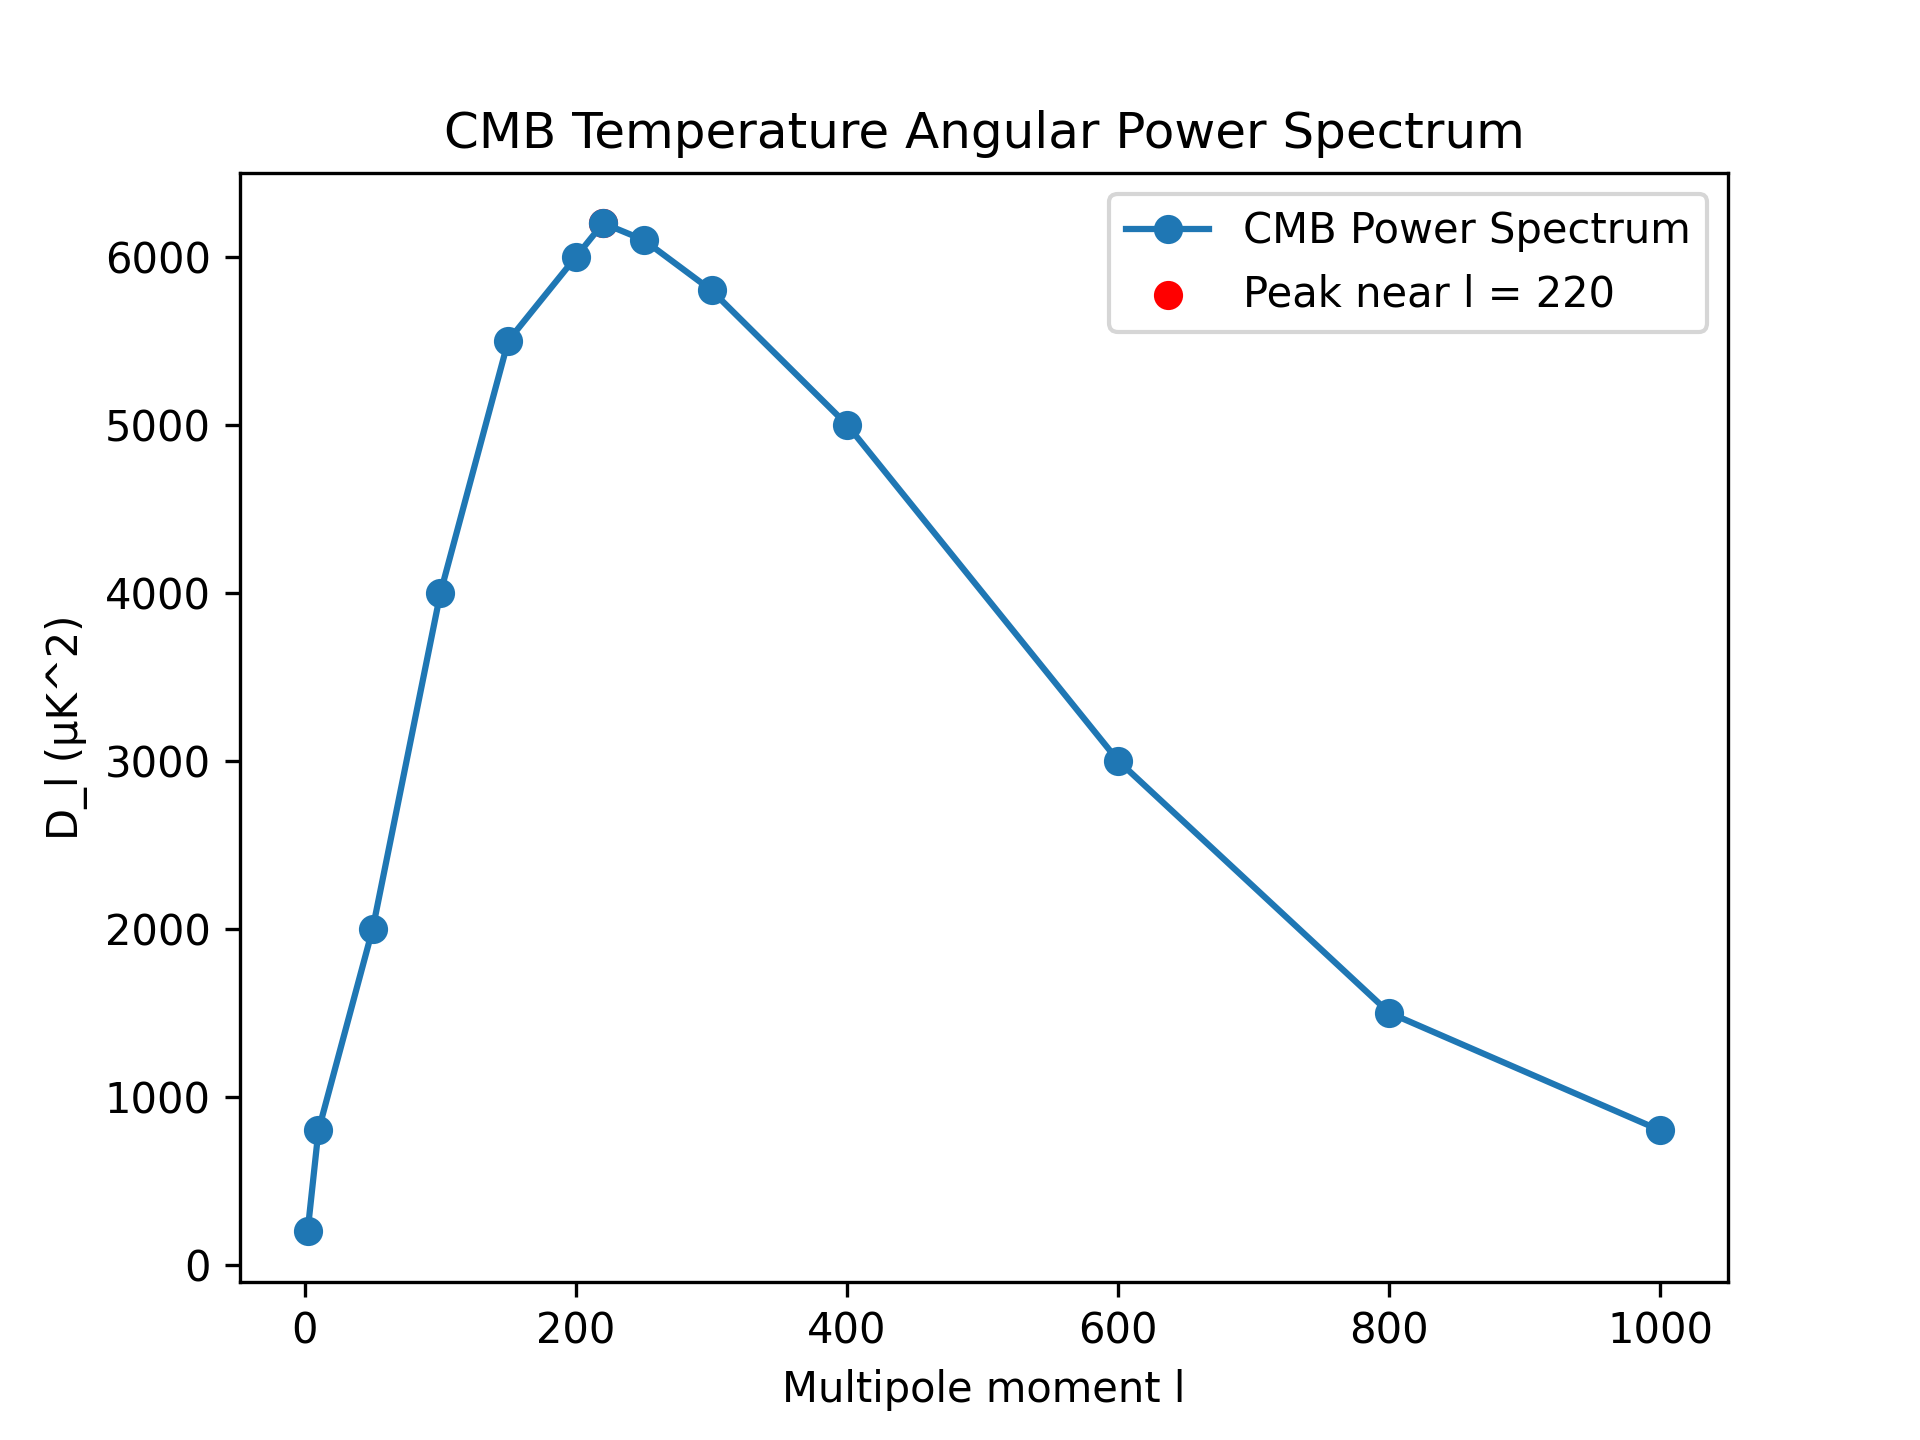
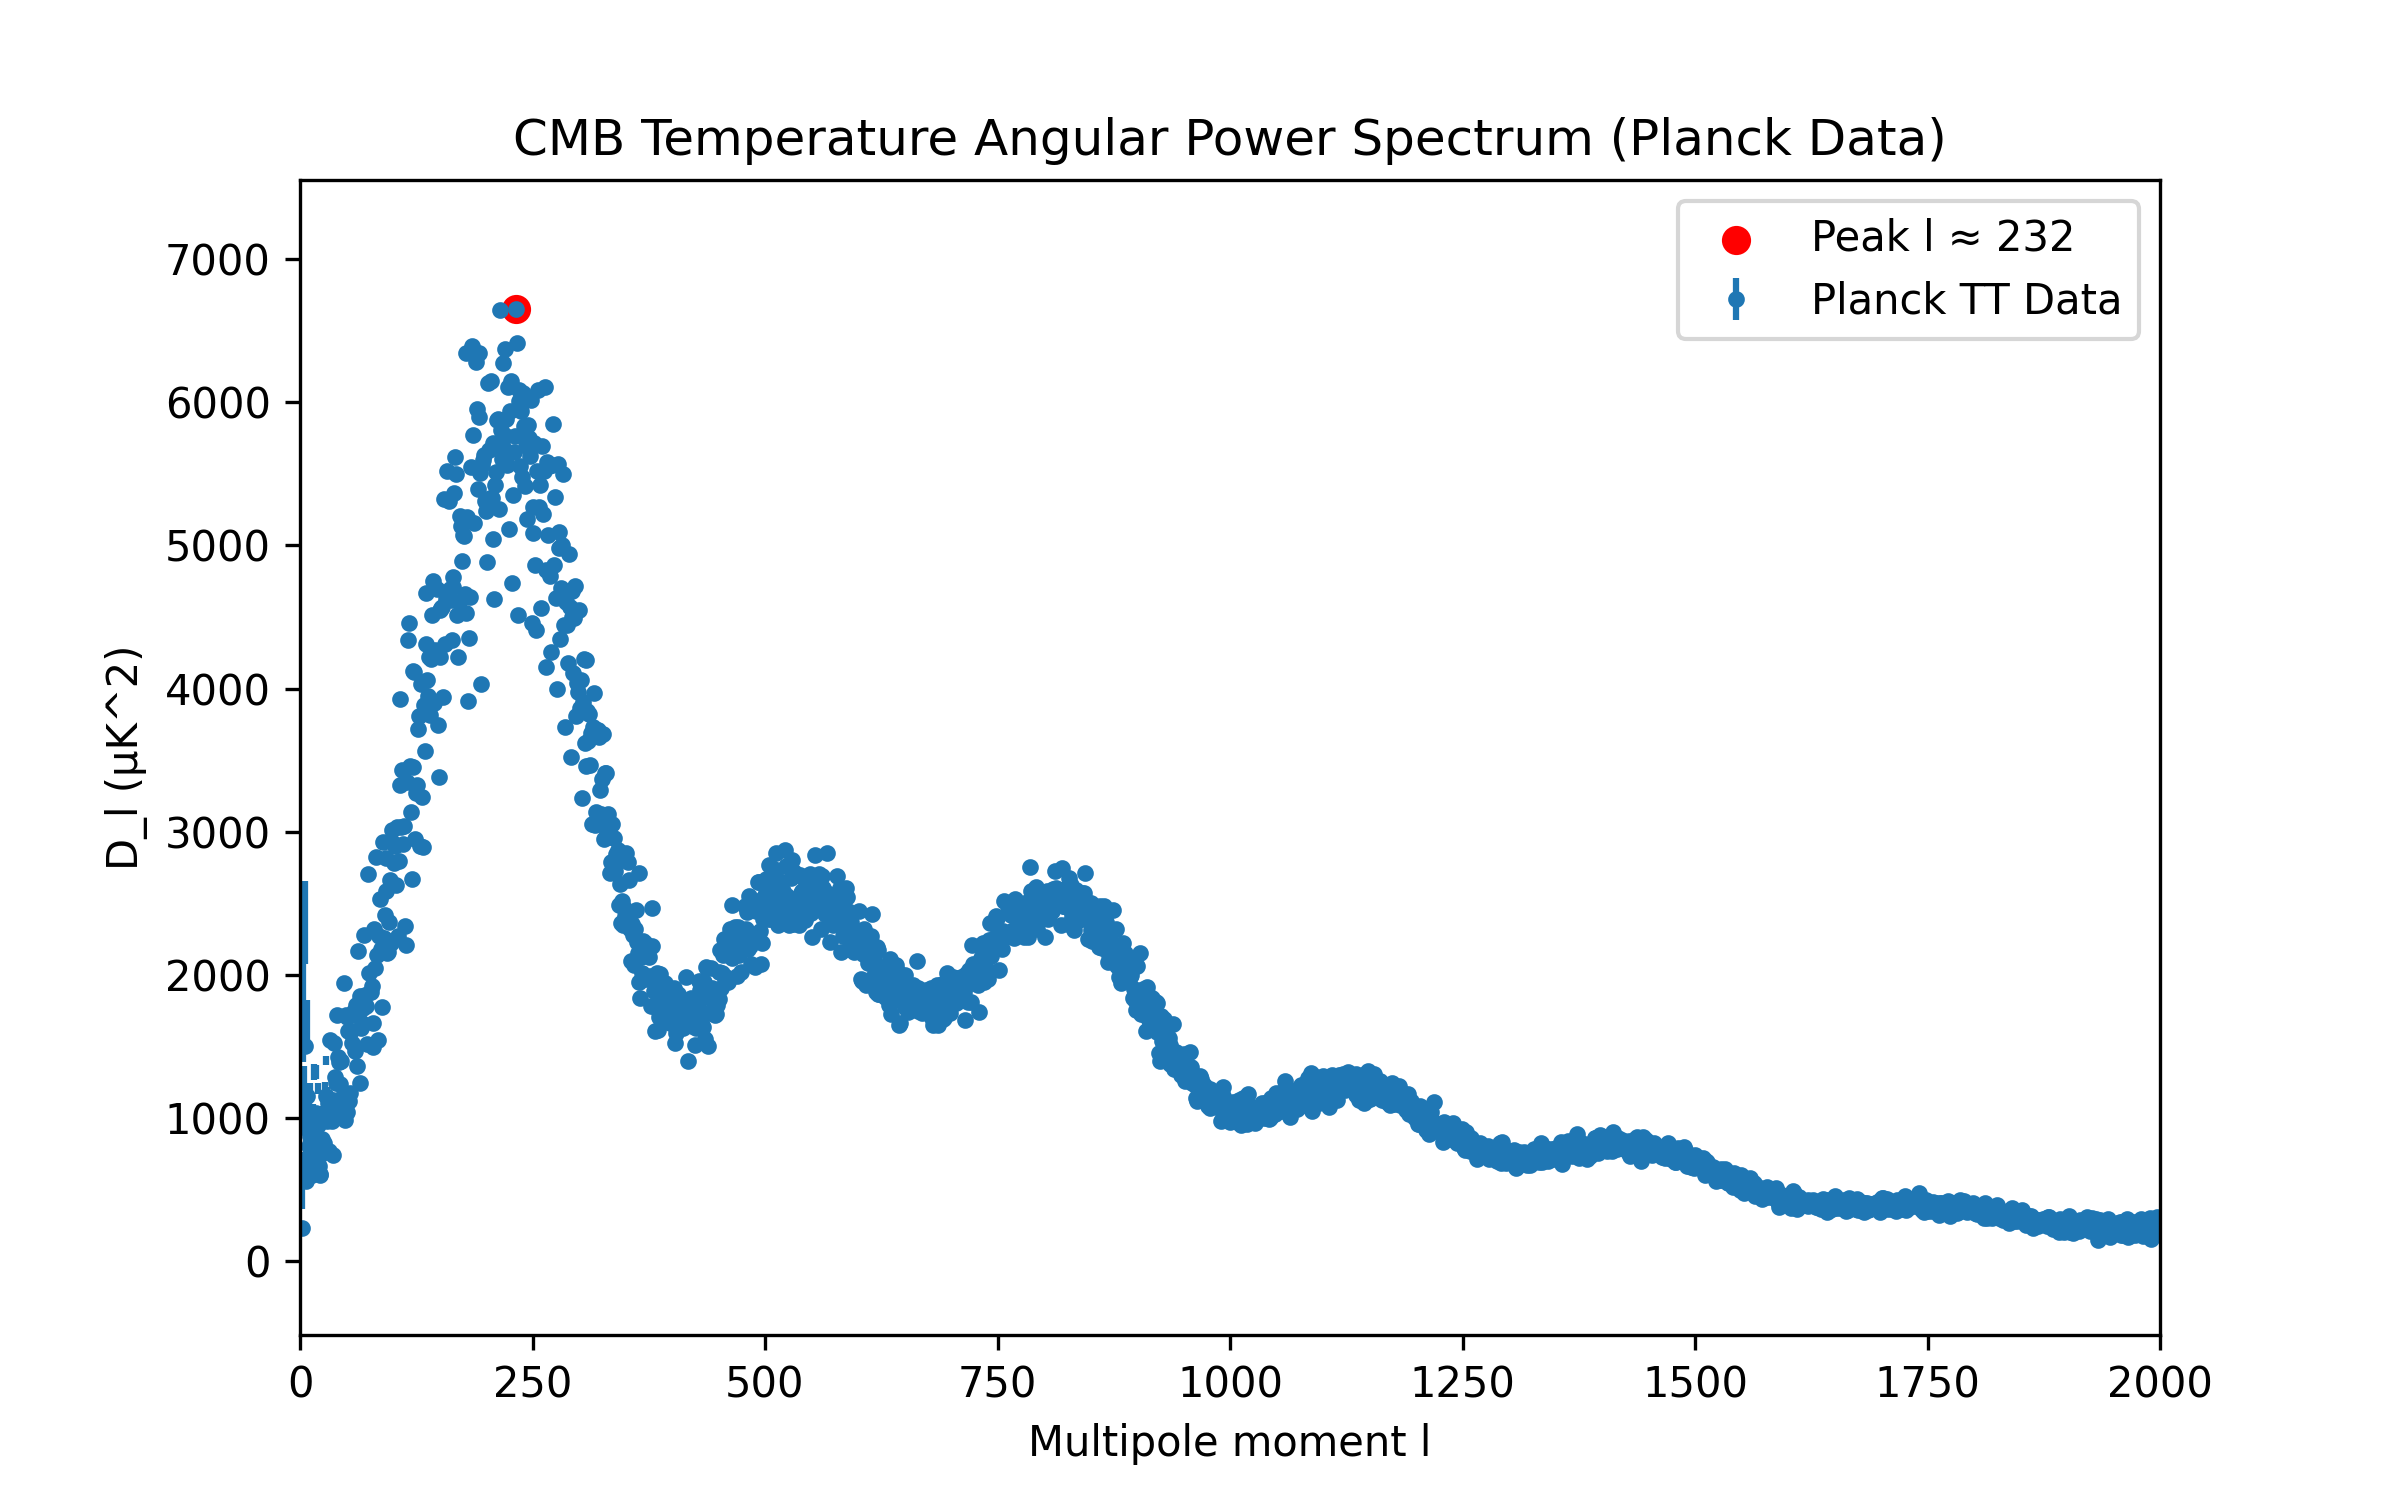
Replace old power spectrum with real Planck data version

diff --git a/cmb_analysis.py b/cmb_analysis.py
@@ -36,5 +36,5 @@ plt.title("CMB Temperature Angular Power Spectrum (Planck Data)")
 plt.xlim(0, 2000)
 plt.legend()
 
-plt.savefig("cmb_power_spectrum_real.png", dpi=300)
+plt.savefig("power_spectrum.png", dpi=300)
 plt.show()
